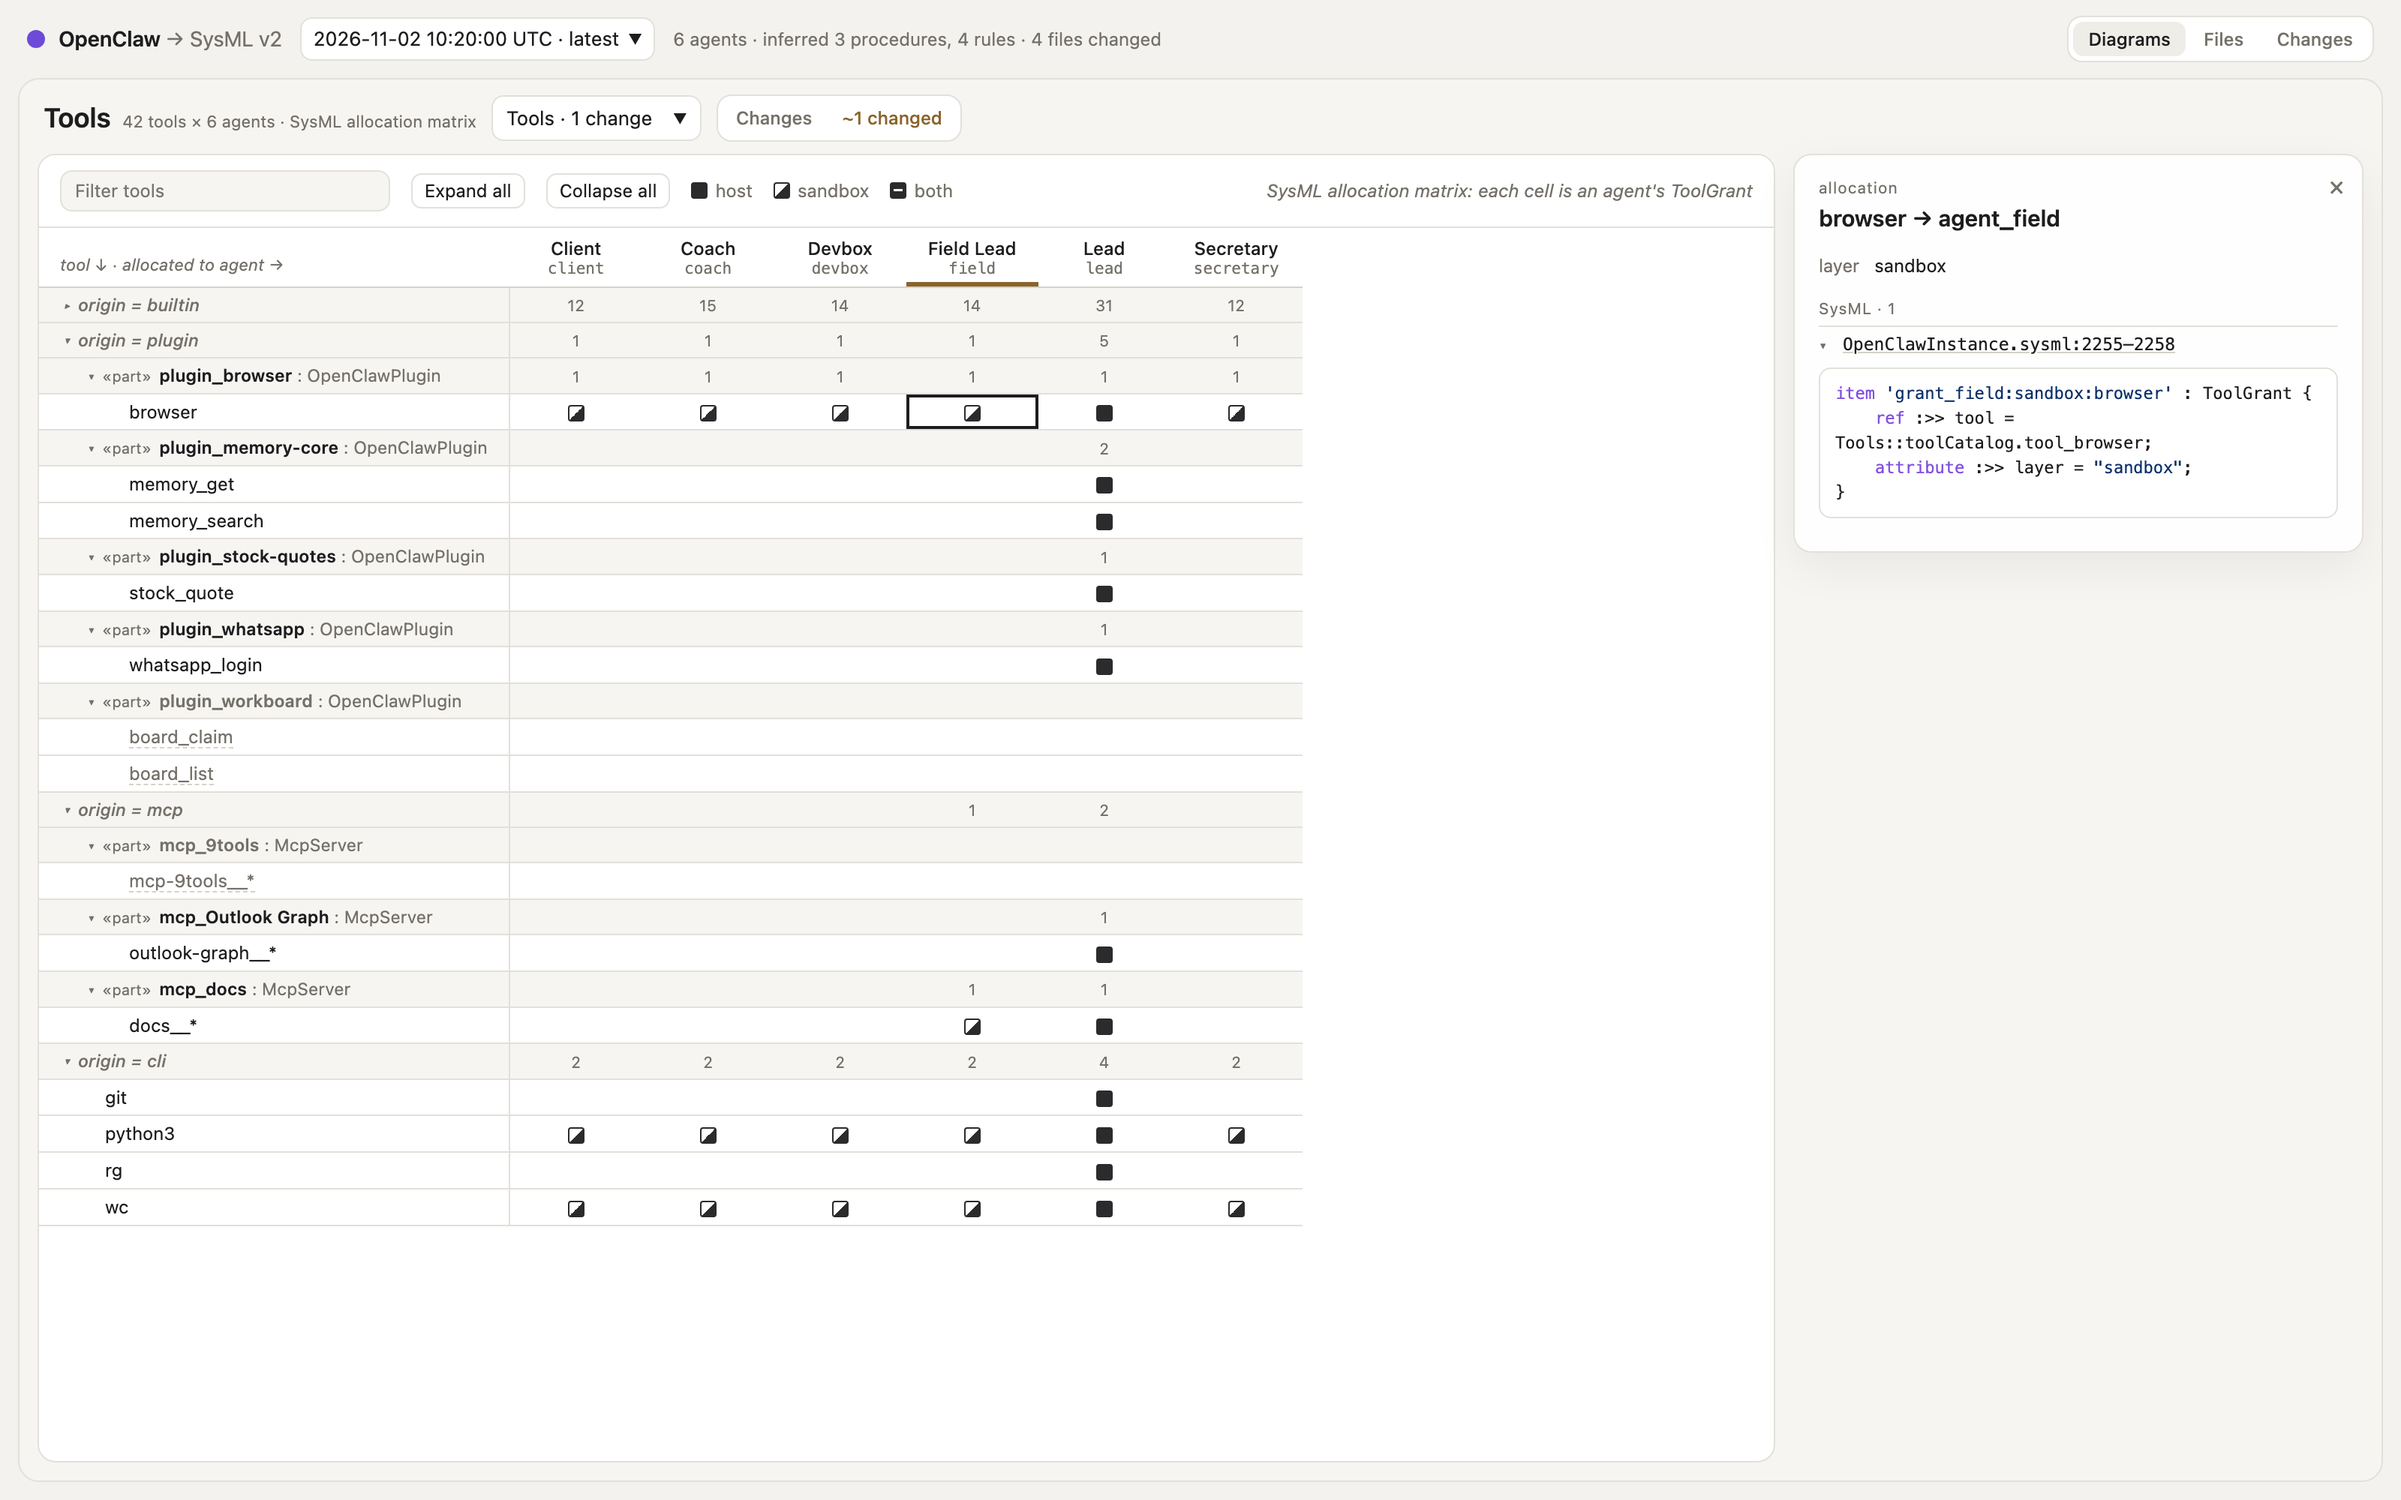
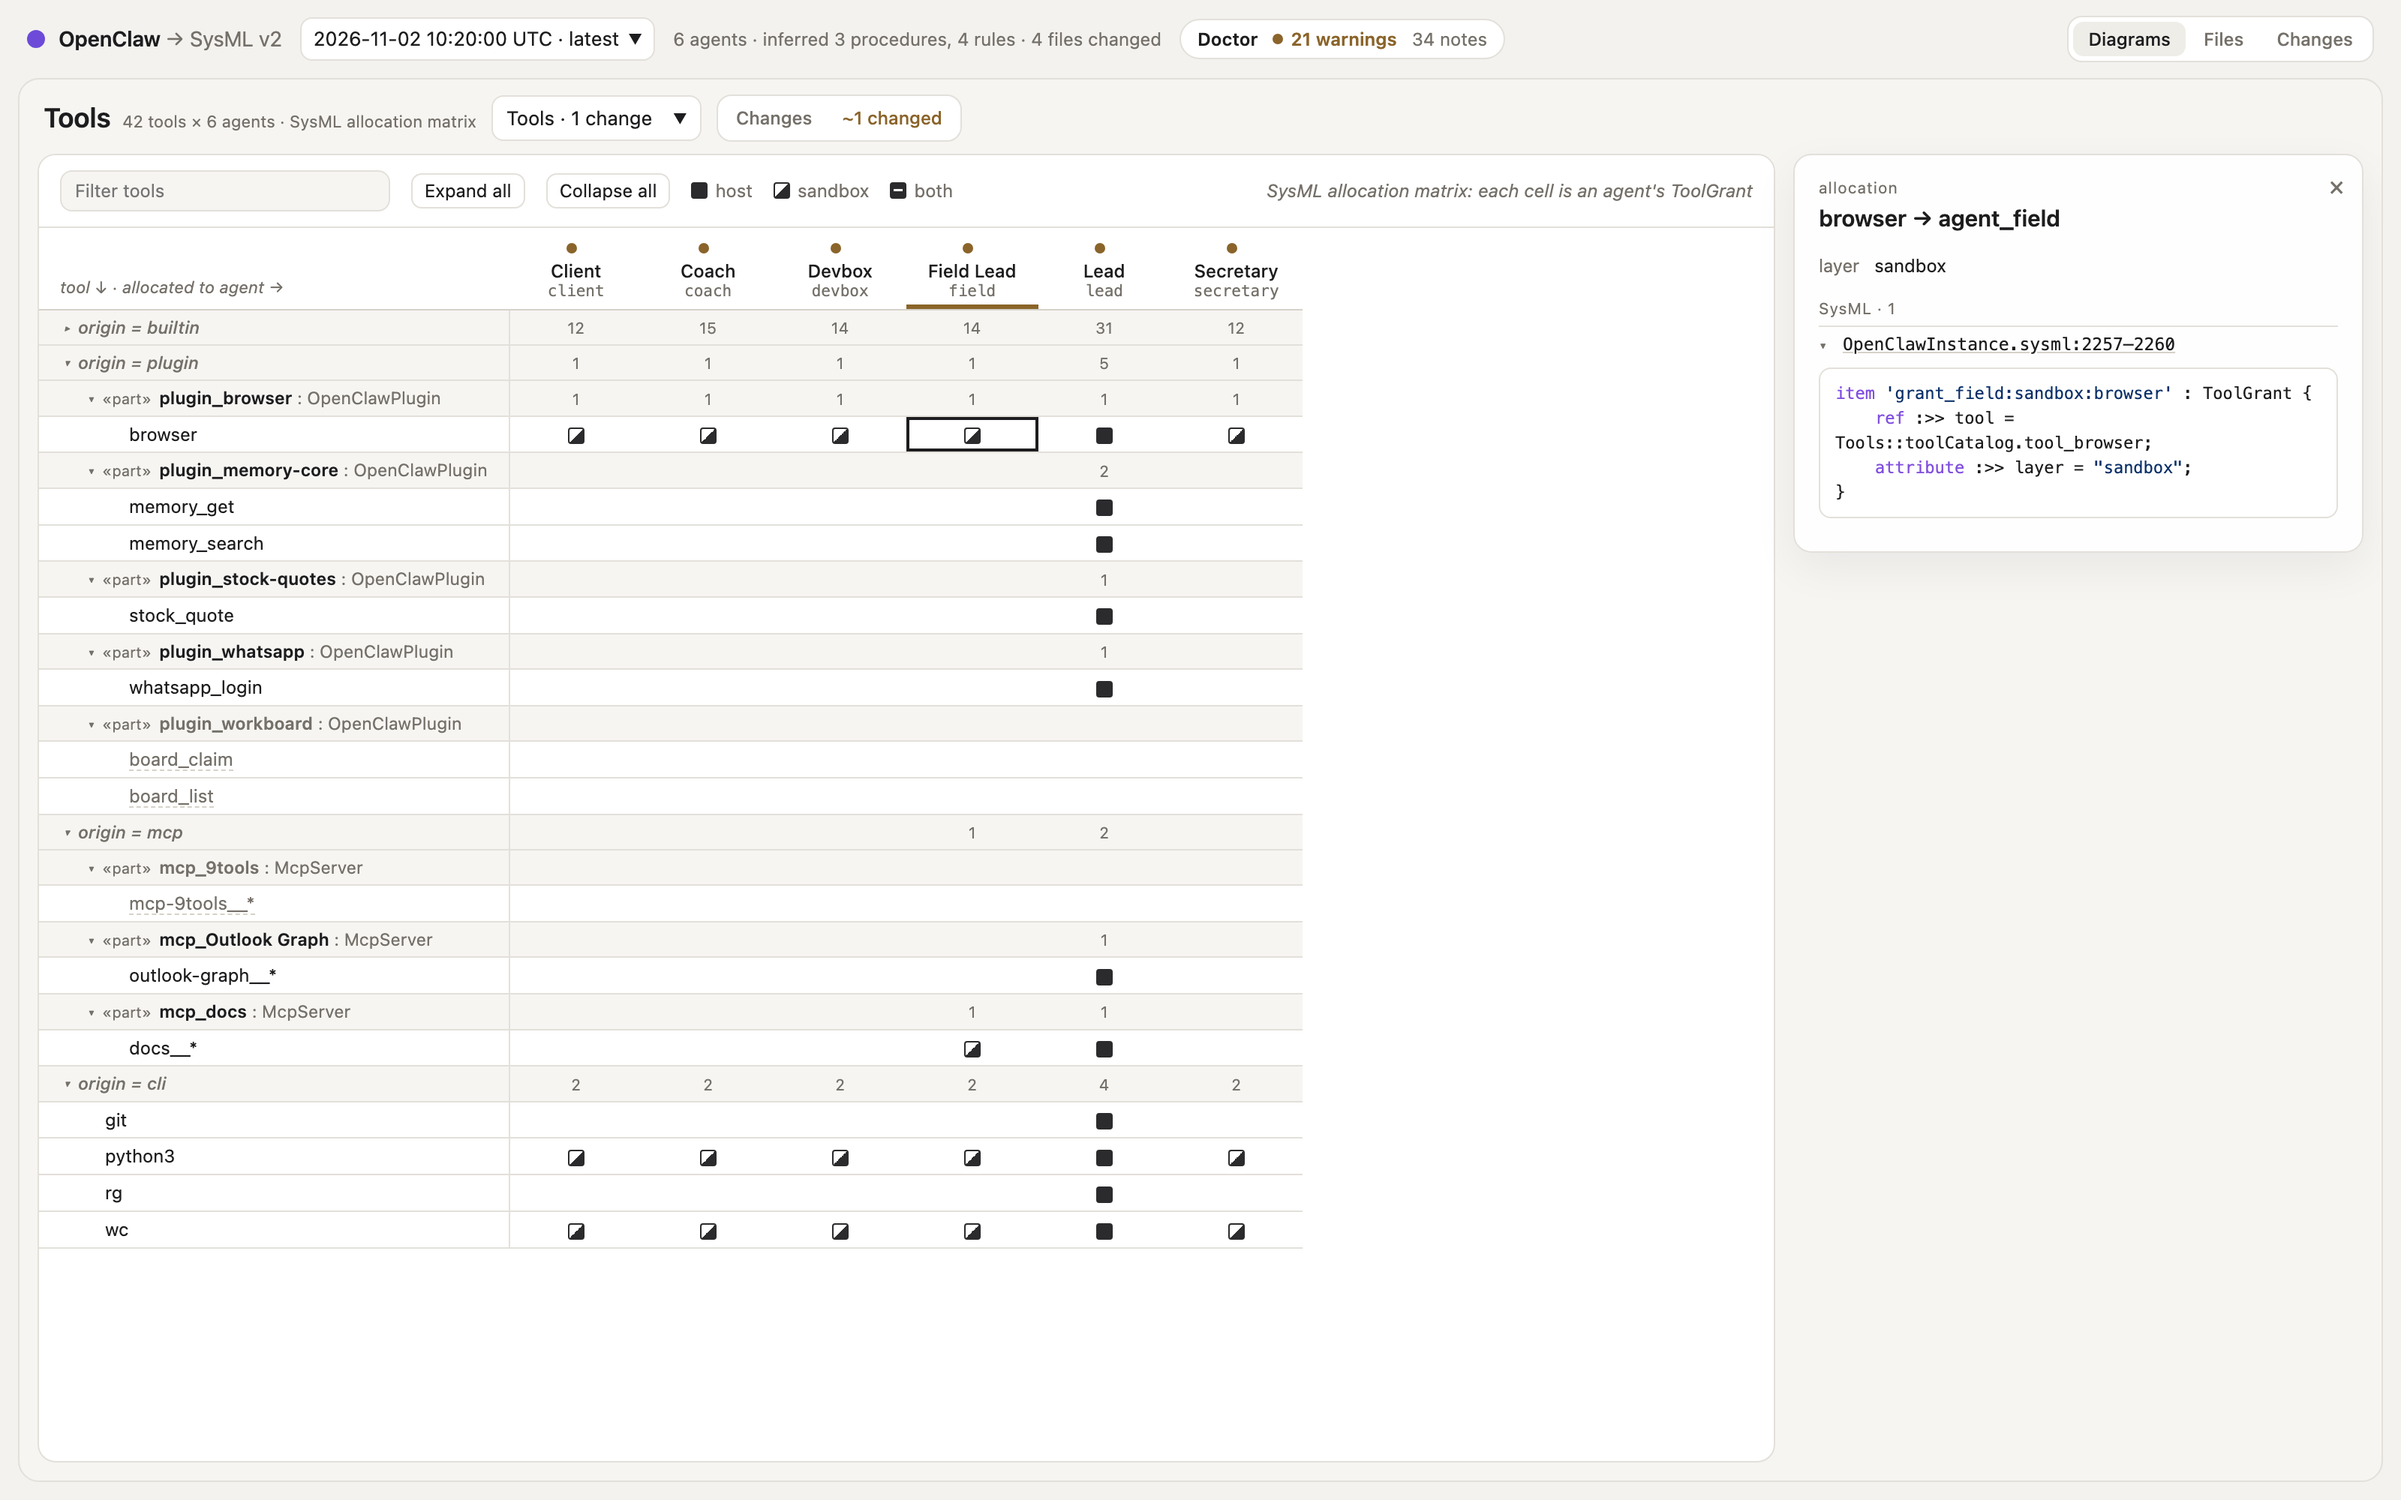
docs(readme): show the Doctor panel and refresh the screenshots

diff --git a/README.md b/README.md
@@ -78,6 +78,8 @@ The summary and `versions.json` count them. In the viewer, the Doctor chip in
 the header lists them, and the elements concerned carry a mark. Findings never
 block an export or change the instance.
 
+![The Doctor panel: each finding with the element it concerns and its fix](docs/screenshots/doctor.png)
+
 [Diagnostics](docs/diagnostics.md) lists every code, its source in OpenClaw and
 its fix. To check a snapshot on its own, run
 `deno task doctor --snapshot snapshot.json`.
